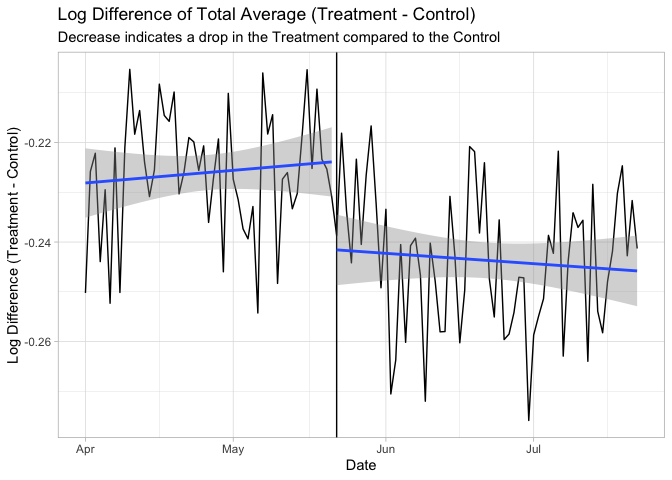
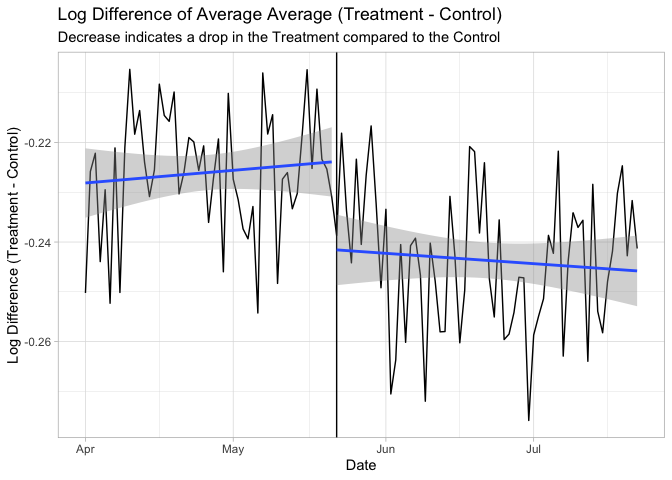
diff-in-diff update

Changed region(s): [[0.2812, 0.0, 0.75, 0.0625]]

diff --git a/examples/difference-in-difference/difference-in-difference.md b/examples/difference-in-difference/difference-in-difference.md
@@ -101,7 +101,7 @@ sem %>%
     scale_x_date() +
     scale_y_continuous(labels=rt_pretty_axes) +
     geom_smooth(method='lm', aes(group=treatment_period)) +
-    labs(title = "Log Difference of Total Average (Treatment - Control)",
+    labs(title = "Log Difference of Average Average (Treatment - Control)",
          subtitle = "Decrease indicates a drop in the Treatment compared to the Control",
          y = "Log Difference (Treatment - Control)",
          x = 'Date')
@@ -127,7 +127,7 @@ sem %>%
     scale_x_date() +
     scale_y_continuous(labels=rt_pretty_axes) +
     geom_smooth(method='lm', aes(group=treatment_period)) +
-    labs(title = "Difference of Total Revenue (Treatment - Control)",
+    labs(title = "Difference of Average Revenue (Treatment - Control)",
          subtitle = "Note: as compared with log difference, no change in trend is found,\nbecause we are comparing a change within a smaller group to no change in a larger group\n(i.e. additive difference), whereas we want to know the multiplicative difference.",
          y = "Difference (Treatment - Control)",
          x = 'Date')
